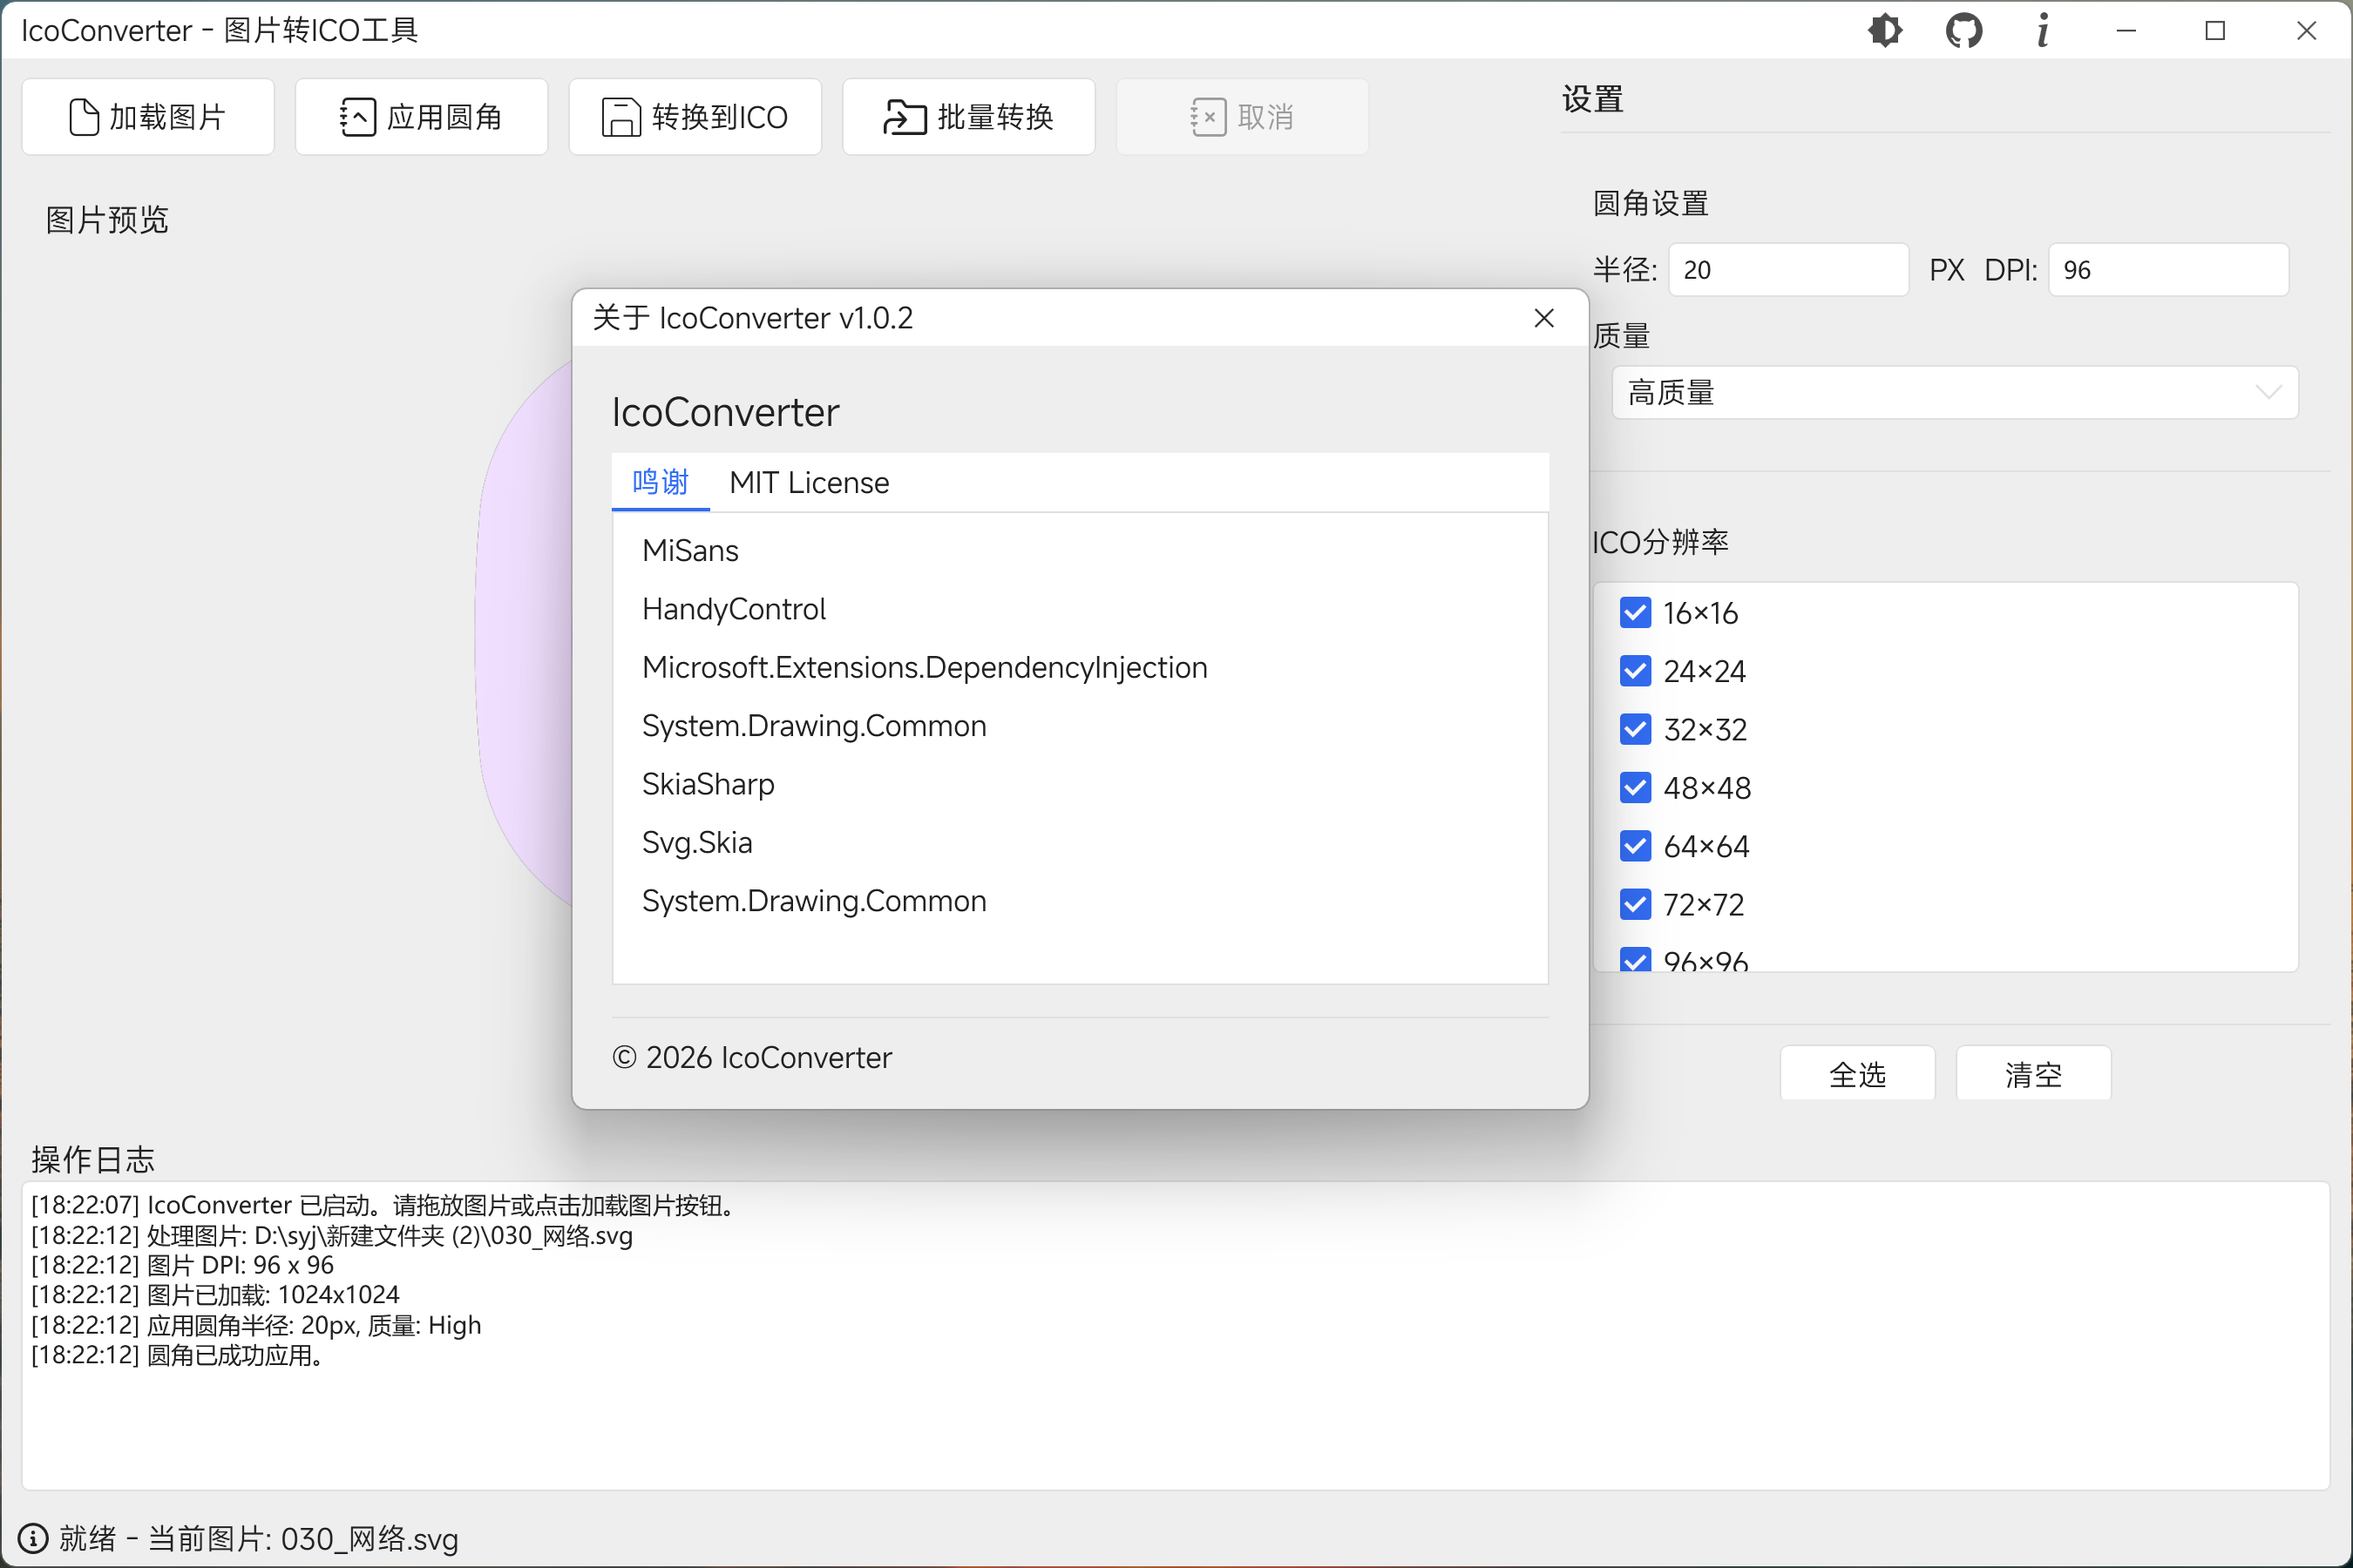
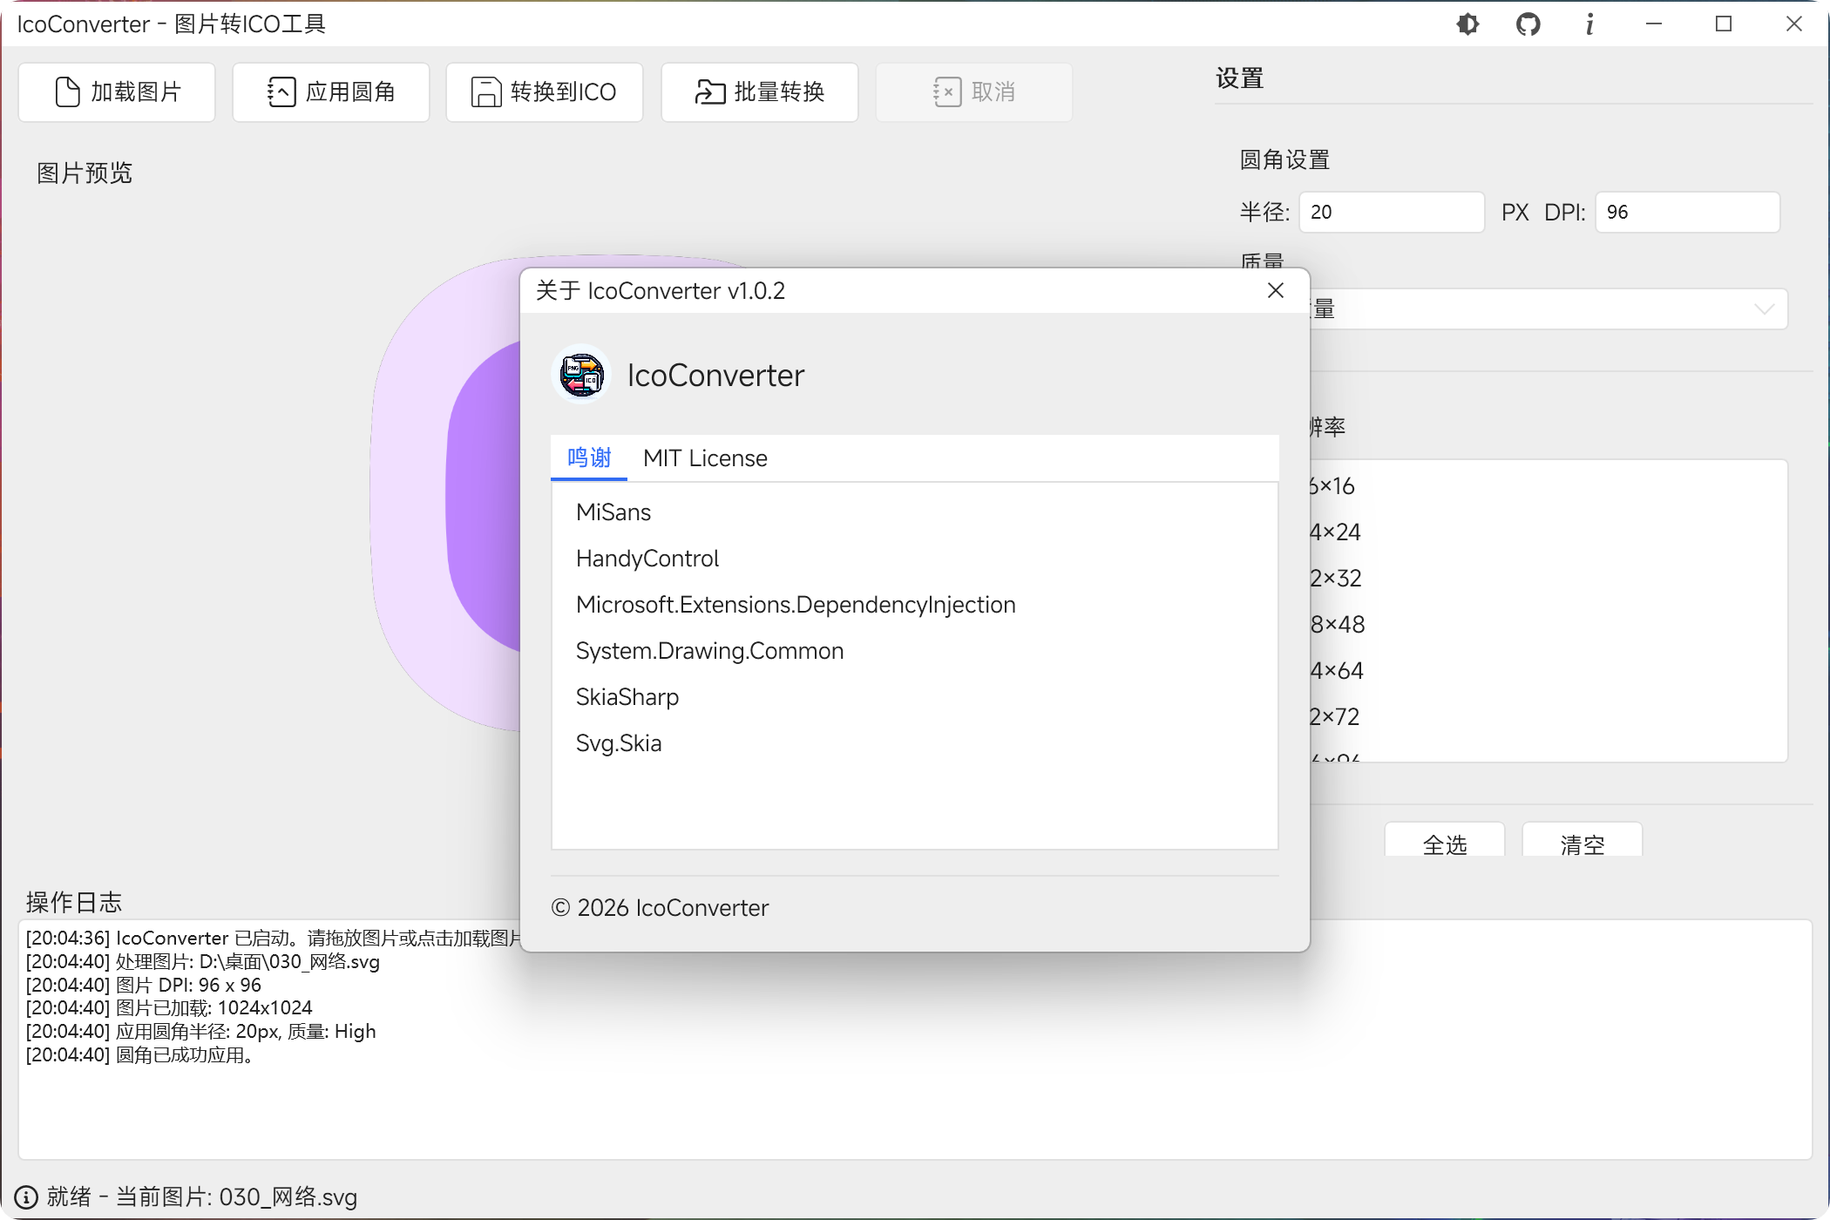
调整布局

diff --git a/src/MainWindow.xaml b/src/MainWindow.xaml
@@ -22,6 +22,7 @@
                     BorderThickness="0"
                     Command="{Binding ChangeThemeCommand}">
                     <Path
+                        Margin="1"
                         Data="{StaticResource Brightness6}"
                         Fill="{DynamicResource PrimaryTextBrush}"
                         Stretch="Uniform" />
@@ -31,6 +32,7 @@
                     BorderThickness="0"
                     Command="{Binding OpenGithubCommand}">
                     <Path
+                        Margin="1"
                         Data="{StaticResource Github}"
                         Fill="{DynamicResource PrimaryTextBrush}"
                         RenderTransformOrigin="0.5,0.5"
@@ -45,6 +47,7 @@
                     BorderThickness="0"
                     Command="{Binding OpenAboutCommand}">
                     <Path
+                        Margin="1"
                         Data="{StaticResource Info}"
                         Fill="{DynamicResource PrimaryTextBrush}"
                         RenderTransformOrigin="0.5,0.5"
@@ -99,6 +102,7 @@
                             Command="{Binding LoadImageCommand}">
                             <StackPanel Orientation="Horizontal">
                                 <Path
+                                    Width="20"
                                     Height="20"
                                     Data="{StaticResource File}"
                                     Fill="{DynamicResource PrimaryTextBrush}"
@@ -117,6 +121,7 @@
                             Command="{Binding ApplyCornerRadiusCommand}">
                             <StackPanel Orientation="Horizontal">
                                 <Path
+                                    Width="20"
                                     Height="20"
                                     Data="{StaticResource JournalCheck}"
                                     Fill="{DynamicResource PrimaryTextBrush}"
@@ -135,6 +140,7 @@
                             Command="{Binding ConvertToIcoCommand}">
                             <StackPanel Orientation="Horizontal">
                                 <Path
+                                    Width="20"
                                     Height="20"
                                     Data="{StaticResource FloppyDiskThin}"
                                     Fill="{DynamicResource PrimaryTextBrush}"
@@ -152,6 +158,7 @@
                             Command="{Binding BatchConvertCommand}">
                             <StackPanel Orientation="Horizontal">
                                 <Path
+                                    Width="20"
                                     Height="20"
                                     Data="{StaticResource FileDirectorySymlink}"
                                     Fill="{DynamicResource PrimaryTextBrush}"
@@ -169,6 +176,7 @@
                             Command="{Binding CancelCommand}">
                             <StackPanel Orientation="Horizontal">
                                 <Path
+                                    Width="20"
                                     Height="20"
                                     Data="{StaticResource JournalX}"
                                     Fill="{DynamicResource PrimaryTextBrush}"

diff --git a/src/AboutWindow.xaml b/src/AboutWindow.xaml
@@ -7,17 +7,32 @@
     xmlns:mc="http://schemas.openxmlformats.org/markup-compatibility/2006"
     Title="{Binding _Title}"
     Width="520"
-    Height="420"
+    Height="450"
     ResizeMode="NoResize"
     WindowStartupLocation="CenterOwner"
     mc:Ignorable="d">
     <Border Padding="20">
         <StackPanel>
             <StackPanel Orientation="Horizontal">
-                <TextBlock FontSize="20" Text="IcoConverter" />
+                <Image
+                    Width="40"
+                    Height="40"
+                    Source="/Assets/PNG/app.png">
+                    <Image.Clip>
+                        <EllipseGeometry
+                            Center="20,20"
+                            RadiusX="20"
+                            RadiusY="20" />
+                    </Image.Clip>
+                </Image>
+                <TextBlock
+                    Margin="10,0,0,0"
+                    VerticalAlignment="Center"
+                    FontSize="20"
+                    Text="IcoConverter" />
             </StackPanel>
 
-            <TabControl Margin="0,8,0,0">
+            <TabControl Margin="0,20,0,0">
                 <TabItem Header="鸣谢">
                     <ListBox
                         Height="240"

diff --git a/src/AboutWindow.xaml.cs b/src/AboutWindow.xaml.cs
@@ -18,8 +18,7 @@ public partial class AboutWindow
         "Microsoft.Extensions.DependencyInjection",
         "System.Drawing.Common",
         "SkiaSharp",
-        "Svg.Skia",
-        "System.Drawing.Common"
+        "Svg.Skia"
     ];
     public string LicenseText { get; set; } = "";
     public AboutWindow()

diff --git a/README.md b/README.md
@@ -81,4 +81,3 @@ dotnet run --project src/IcoConverter.csproj
 - System.Drawing.Common
 - SkiaSharp
 - Svg.Skia
-- System.Drawing.Common
